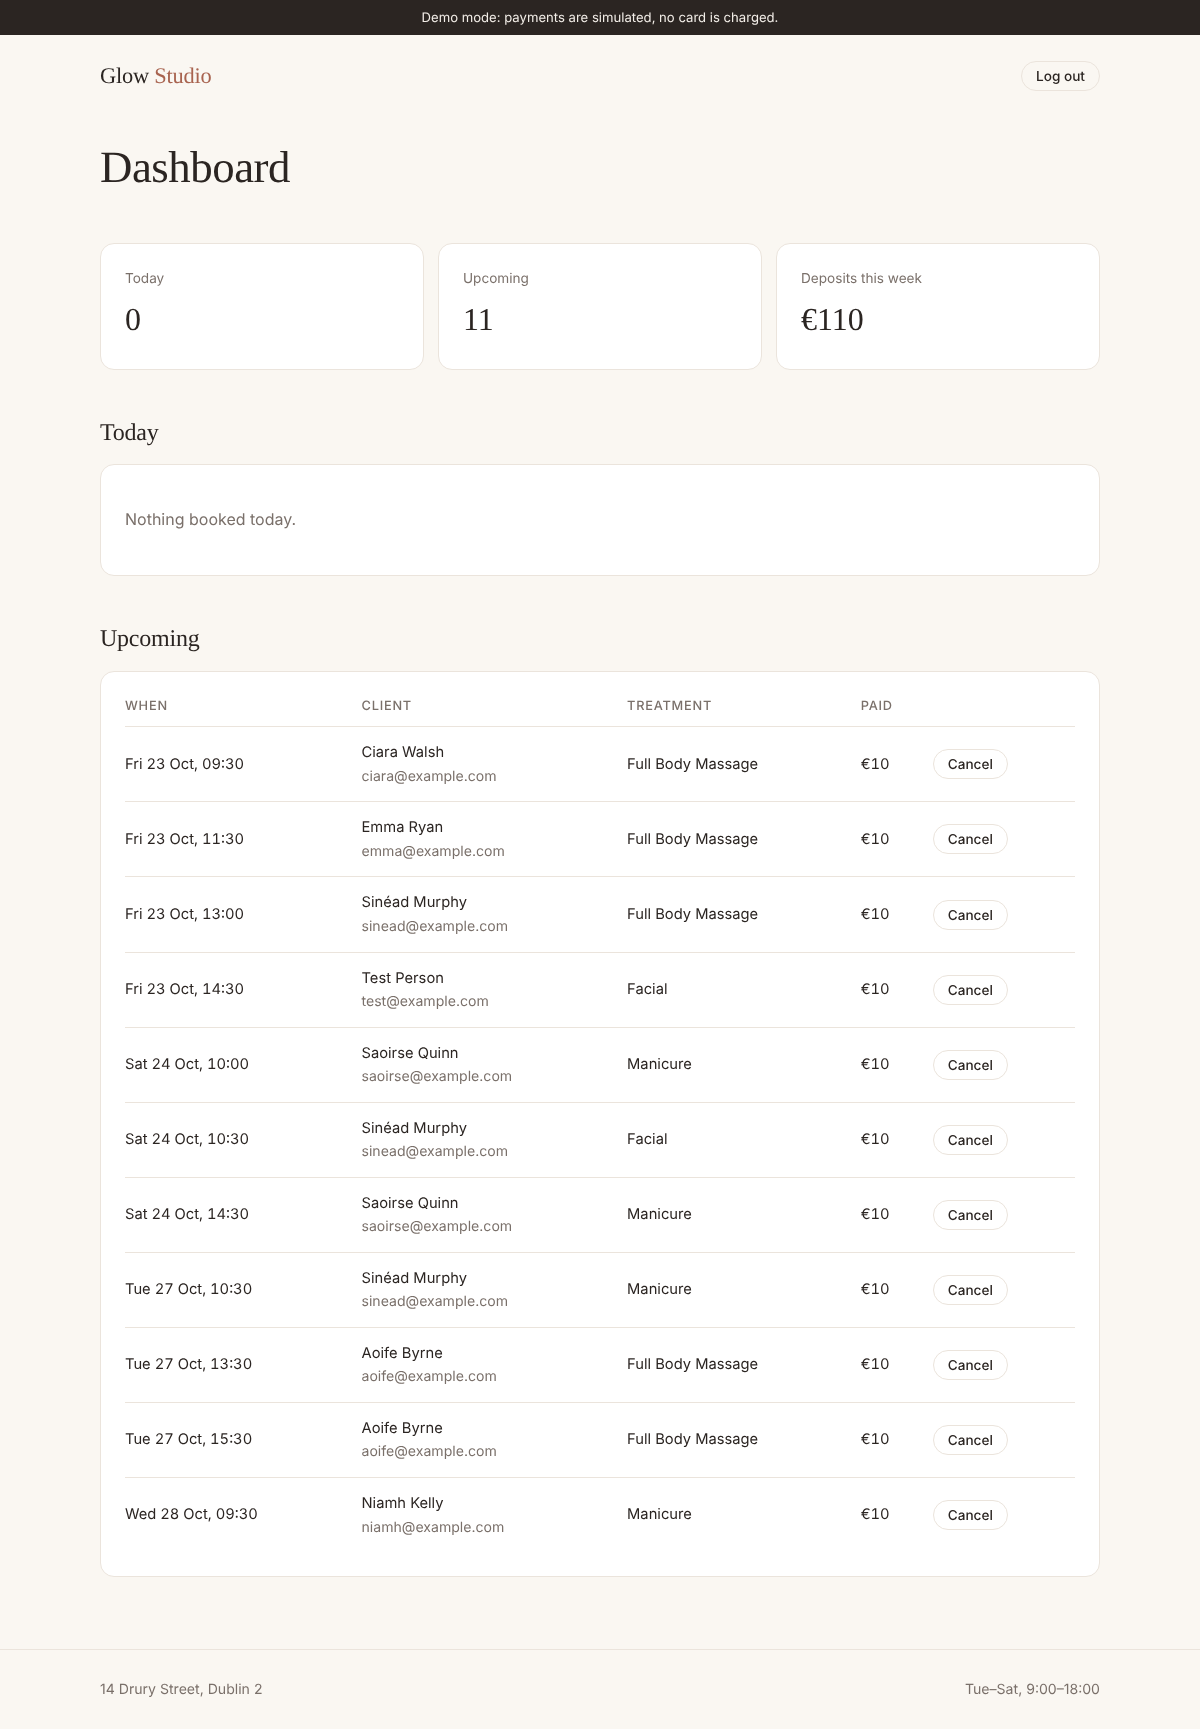
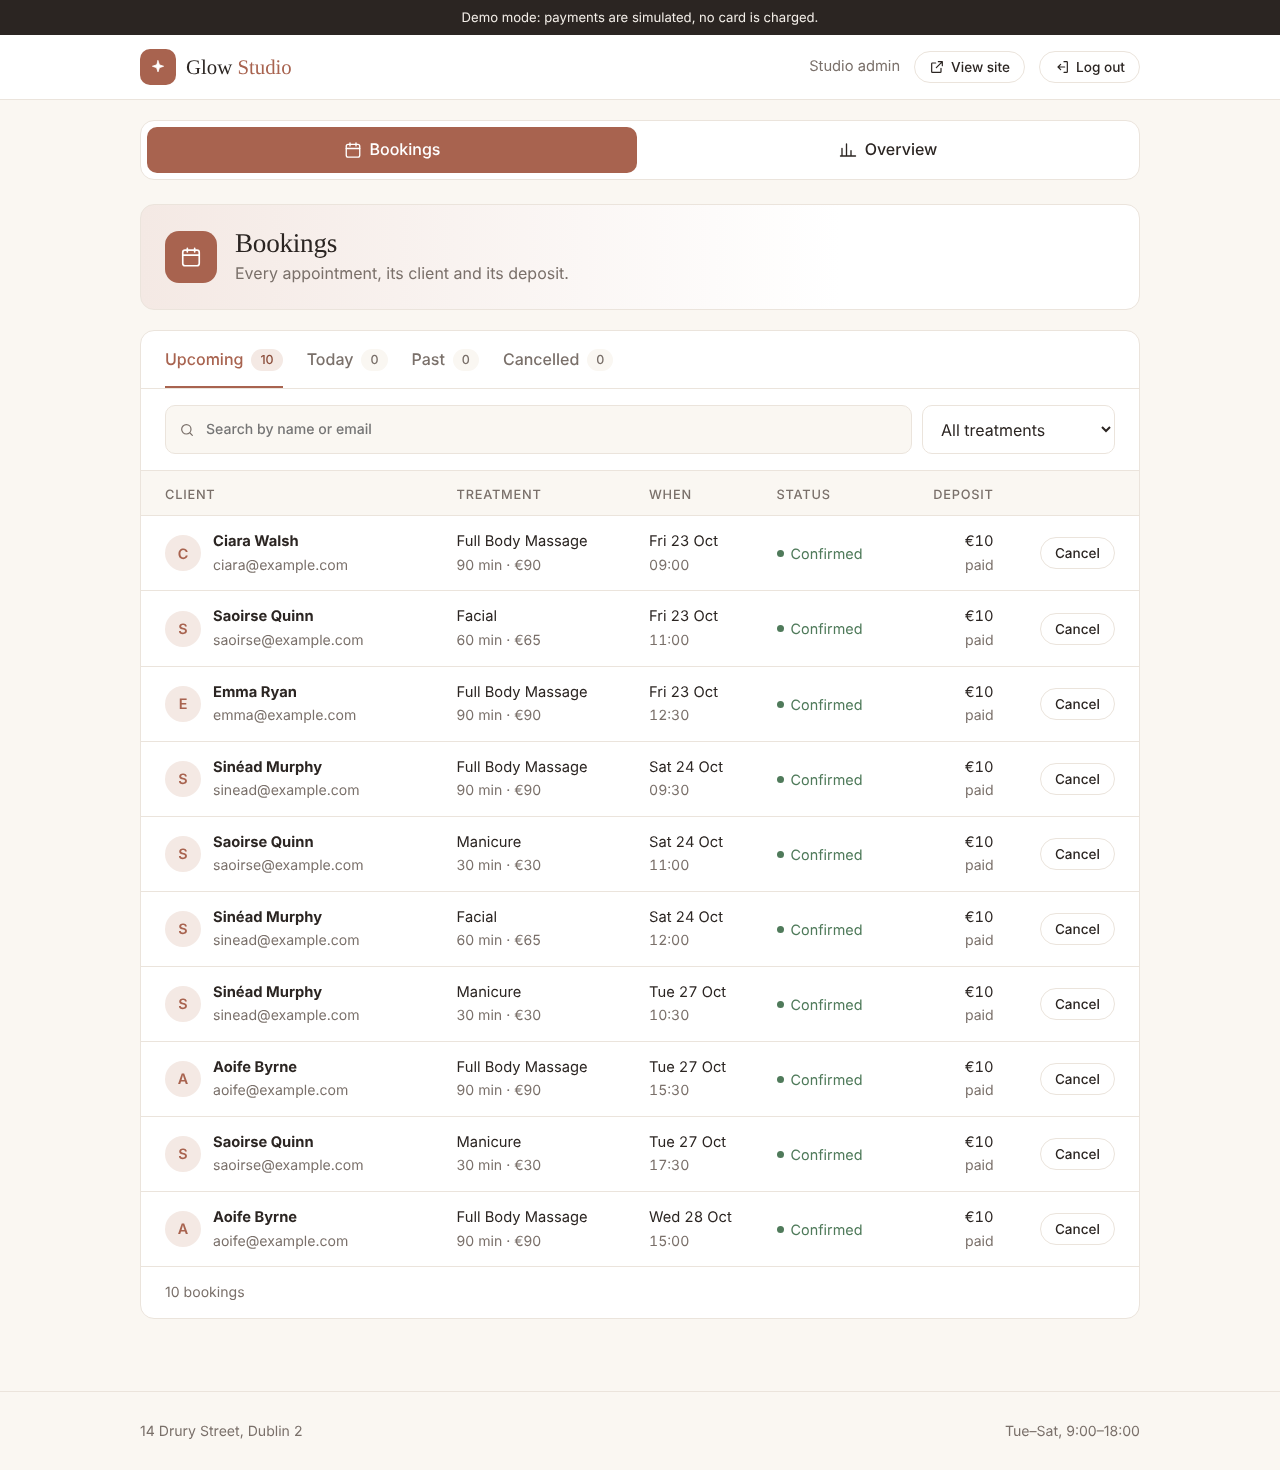
Update README and screenshots

diff --git a/README.md b/README.md
@@ -14,13 +14,14 @@ Online booking and deposits for a small beauty and wellness studio. Customers pi
 - **Emails**: confirmation, 24-hour reminder and cancellation (Resend)
 - **Slack alerts** for new bookings and cancellations
 - **Add to calendar** link
-- **Owner dashboard**: today's schedule, upcoming bookings, deposits this week, one-click cancel and refund
+- **Find my booking**: customers enter their email and get a one-hour link listing their bookings, no account needed
+- **Owner dashboard**: bookings by tab (upcoming, today, past, cancelled) with search and filters, a weekly overview, and one-click cancel and refund
 - **Demo mode**: runs with no keys at all, simulating payments, emails and Slack
 
 | | |
 |---|---|
-| ![Home](docs/home.png) | ![Dashboard](docs/dashboard.png) |
-| ![Confirmed](docs/confirmed.png) | ![Mobile](docs/mobile.png) |
+| ![Dashboard](docs/dashboard.png) | ![Overview](docs/overview.png) |
+| ![Confirmed](docs/confirmed.png) | ![My bookings](docs/my-bookings.png) |
 
 ## Tech
 
@@ -35,7 +36,7 @@ cp .env.example .env
 flask --app wsgi run
 ```
 
-Open http://localhost:5000. With no keys set it runs in demo mode with sample bookings. The dashboard is at `/admin` (password `demo` unless you set `ADMIN_PASSWORD`).
+Open http://localhost:5000 (or run `python3 main.py` for http://localhost:5001). With no keys set it runs in demo mode with sample bookings. The dashboard is at `/admin` (password `demo` unless you set `ADMIN_PASSWORD`).
 
 Run the tests with `pytest`.
 
@@ -50,7 +51,7 @@ All settings live in environment variables (see `.env.example`).
 | `STRIPE_WEBHOOK_SECRET` | Stripe dashboard → Developers → Webhooks, after adding the endpoint below |
 | `RESEND_API_KEY` | resend.com → API Keys |
 | `SLACK_WEBHOOK_URL` | Slack → Apps → Incoming Webhooks |
-| `BASE_URL` | Your live site address, used in email links |
+| `BASE_URL` | Your live site address, used in email links (optional locally) |
 | `SECRET_KEY`, `ADMIN_PASSWORD` | Any long random strings you choose |
 
 Stripe webhook endpoint: `https://<your-site>/stripe/webhook`, listening for `checkout.session.completed` and `checkout.session.expired`.
